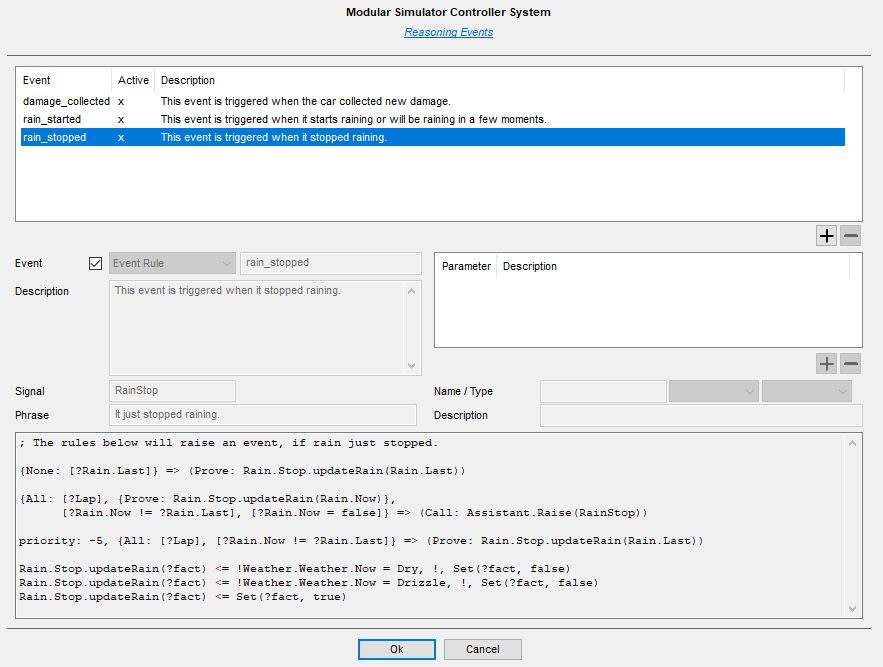
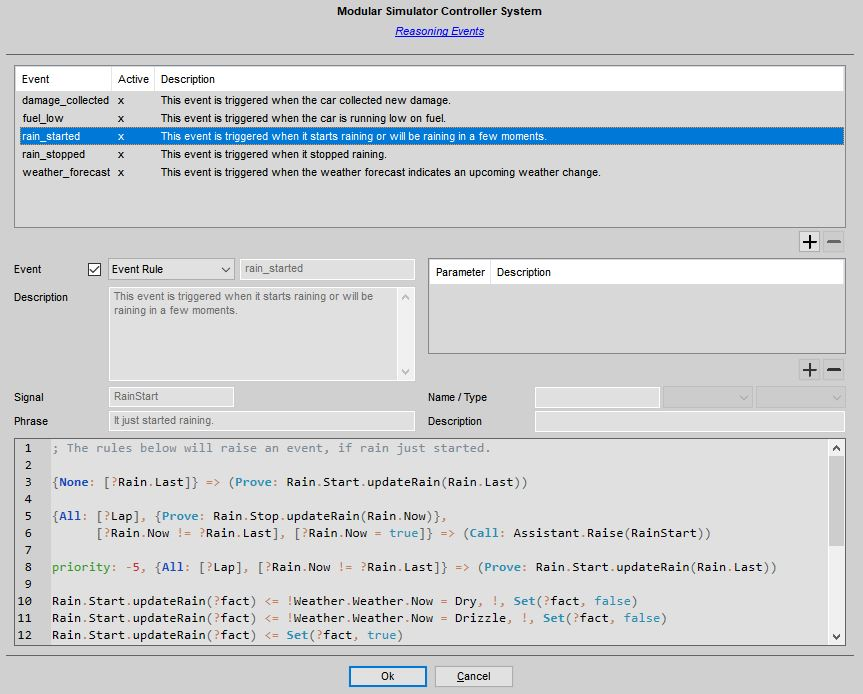
More agent events and actions

diff --git a/Docs/Customizing Assistants.md b/Docs/Customizing Assistants.md
@@ -246,6 +246,7 @@ As you can see, this editor looks very similar to the actions editor discussed a
    |-------------|-------------|
    | Event Class | The event is handled by an instance of a builtin class. This is mainly used for builtin events provided by the Assistant implementation. Butif you are an experienced developer, you can implement your own event classes, which are based on the "AssistantEvent" class. Notes:<br><br>1. The name of the class must be entered into the "Class" field. It must be in the global name space.<br><br>2. You have to supply the "Signal" identifier, but you don't have to provide an event phrase, since this is derived by the implementation of the event class. |
    | Event Rule | The supplied rules are loaded into the rule engine of the given Race Assistant. These rules have full access to the knowledge base and all other rules of this Assistant.<br><br>The event rules can use the full knowledge to derive whether the event in question should be raised. They then raise the event by *calling* the "Assistant.Raise* predicate, optionally supplying additional arguments to the event, which can be referenced in the event phrase.<br><br>Note: Actually, you don't have to raise an event in the event rules, if you are able to handle the situation directly using the rules. In this case, the LLM is not activated. |
+   | Event Disabled | This is a special one, inidcated by a "-" in the "Active" column in the list of events. It declares that the event is consumed, so that the rule engine does not do the default processing for this event. But the event is also processed by the LLM effectively disabling this type of event at all. This makes sense in combination with very smart LLMs, which will trigger actions simply by looking at the data (see the discussion [here](https://github.com/SeriousOldMan/Simulator-Controller/wiki/Customizing-Assistants#connecting-events-&-actions). This makes only sense for the builtin events, of course. |
 
 3. When defining the rules for a custom event, you can use all predicates the introduced above for actions. Additionally, you can use:
    
@@ -268,7 +269,7 @@ Here is an example of a few rules that together detect that it just started rain
 
 Another example, this time using an argument:
 
-![](https://github.com/SeriousOldMan/Simulator-Controller/blob/main/Docs/Images/Event%20Definition.png)
+![](https://github.com/SeriousOldMan/Simulator-Controller/blob/main/Docs/Images/Event%20Definition%201.JPG)
 
 This simple event signals the start of a new lap. The lap number is supplied as a parameter and the message send to the LLM is "The lap 42 just has been started."
  
@@ -351,3 +352,13 @@ Beside the predefined actions for the different Assistant, which come with the s
 |-----------------------------|-------------------|-------------|
 | Position Lost               | - | This event is signalled, if one or more positions has just been lost. |
 | Position Gained             | - | This event is signalled, if one or more positions has just been gained. |
+
+### Connecting Events & Actions
+
+As usual, it depends on the capabilities of the LLM, which actions will be called as a result of a given event. Additionally, because of the inherent non-deterministic nature of LLMs, the behaviour may vary between invocations. You have to decide which events you will send to the LLM (i.e. are activated) and which events should be handled by the rule engine (i.e. are deactivated). Anyway, using the builtin events will not result in a very different behaviour than running an Assistant without the *Reasoning* booster, since in most cases the LLM will decide to connect an event to its natural corresponding action. Example: *Fuel Low* -> *Low Fuel Reporting*
+
+As LLMs become smarter, we will be able to rely more and more on the intelligence and the domain specific knowledge of the LLM. I have run some tests using some of the current high end models (GPT 4o, Claude 3.5 Sonnet, ...) by disabling all events and running only one very simple event:
+
+![](https://github.com/SeriousOldMan/Simulator-Controller/blob/main/Docs/Images/Event%20Definition%202.JPG)
+
+The results are very promising, but these models are still very expensive. If you want to use this approach, make sure, that you leave all builtin events "Active" but set their type to "Event Disabled", because otherwise they will be handled by the rule engine and you might end up with duplicate behaviour, for example a pitstop being planned twice.

diff --git a/Docs/Sidebar.md b/Docs/Sidebar.md
@@ -245,6 +245,7 @@
   - [Managing Actions](https://github.com/SeriousOldMan/Simulator-Controller/wiki/Customizing-Assistants#managing-actions)
   - [Managing Events](https://github.com/SeriousOldMan/Simulator-Controller/wiki/Customizing-Assistants#managing-events)
   - [Predefined Actions & Events](https://github.com/SeriousOldMan/Simulator-Controller/wiki/Customizing-Assistants#predefined-actions-&-events)
+    - [Connecting Events & Actions](https://github.com/SeriousOldMan/Simulator-Controller/wiki/Customizing-Assistants#connecting-events-&-actions)
 	
 [Team Server](https://github.com/SeriousOldMan/Simulator-Controller/wiki/Team-Server)
 ------
